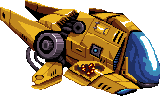
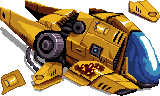
feat: update map tiles, added downed ship

diff --git a/MicroMarine/Scenes/SampleScene.cs b/MicroMarine/Scenes/SampleScene.cs
@@ -142,7 +142,7 @@ namespace MicroMarine.Scenes
 
             // Initiate tile map
             Entity tileMapEntity = CreateEntity("tileMap", Vector2.Zero);
-            Texture2D mapTexture = Content.LoadTexture("mapSheet", "Content/grassSheet32.png");
+            Texture2D mapTexture = Content.LoadTexture("mapSheet", "Content/dirt_sheet32.png");
             Texture2D shipTexture = Content.LoadTexture("shipSheet", "Content/crashed_ship.png");
             var mapSpriteSheet = new SpriteSheet(mapTexture, 32, 32);
             var shipSpriteSheet = new SpriteSheet(shipTexture, 32, 32);
@@ -151,14 +151,14 @@ namespace MicroMarine.Scenes
 
             // Fire
             //var fireSheet = new SpriteSheet(fireTexture, 49, 74);
-            //var fire = CreateEntity("fire", map.MapCenter.ToVector2());
+            //var fire = CreateEntity("fire", map.MapCenter.ToVector2() + new Vector2(50, -50));
             //fire.Origin = new Vector2(fire.Dimensions.X / 2, fire.Dimensions.Y / 2);
             //var fireAnimation = new Animator();
             //fireAnimation.AddAnimation("burn", new Animation(fireTexture, fireSheet.GetFrames(0, 18), 19, Animation.LoopMode.Loop));
             //fireAnimation.Play("burn");
             //fire.AddComponent(fireAnimation);
 
-            //var light = new SimpleLight(fire, lightTexture, new Color(255, 255, 255), Vector2.One);
+            //var light = new SimpleLight(fire, lightTexture, new Color(255, 230, 230), Vector2.One);
             //Lighting.AddLight(light);
 
 
@@ -172,7 +172,7 @@ namespace MicroMarine.Scenes
             }
 
             //Add Blant Spawner
-            Entity blantSpawner = CreateEntity("unitSpawner", map.MapCenter.ToVector2());
+            Entity blantSpawner = CreateEntity("unitSpawner", map.MapCenter.ToVector2() + new Vector2(-20, 60));
             blantSpawner.AddComponent(
                 new UnitSpawner<Blant>(map.MapCenter.ToVector2(), totalSpawns: 100, unitPerWave: 2, waveDelay: 8, waveStep: 2)
             );

diff --git a/Zand/Assets/TileMap.cs b/Zand/Assets/TileMap.cs
@@ -62,8 +62,8 @@ namespace Zand.Assets
                 for (int x = 0; x < baseLayer[y].Length; x++)
                 {
                     // TODO use a reference to a "Tile Repo" instead of creating multiple types of tile
-                    int id = Entity.Scene.Rng.Next(0, 64);
-                    Tile newTile = new Tile(id, id == 63);
+                    int id = Entity.Scene.Rng.Next(0, 14);
+                    Tile newTile = new Tile(id, false);
                     baseLayer[y][x] = newTile;
                 }
             }
@@ -115,14 +115,16 @@ namespace Zand.Assets
         private void DrawMap(SpriteBatch sbatch, Camera camera)
         {
             (Point min, Point max) cullingBounds = GetCullingBounds(camera);
+
+
             for (int yIndex = cullingBounds.min.Y; yIndex < cullingBounds.max.Y; yIndex++)
             {
                 for (int xIndex = cullingBounds.min.X; xIndex < cullingBounds.max.X; xIndex++)
                 {
+
                     for (int layerIndex = 0; layerIndex < Layers.Count; layerIndex++)
                     {
                         var tile = Layers[layerIndex][yIndex][xIndex];
-
                         if (tile.Id is null)
                         {
                             continue;

diff --git a/Zand/Graphics/Lighting/LightMap.cs b/Zand/Graphics/Lighting/LightMap.cs
@@ -31,7 +31,7 @@ namespace Zand.Graphics.Lighting
                 ColorDestinationBlend = Blend.Zero,
                 ColorBlendFunction = BlendFunction.Add
             };
-            DarknessColor = new Color(0, 0, 0, 255);
+            DarknessColor = new Color(0, 0, 10, 255);
             Lights = new List<SimpleLight>();
             LightsToRemove = new List<SimpleLight>();
         }

diff --git a/Zand/Assets/SpriteSheet.cs b/Zand/Assets/SpriteSheet.cs
@@ -73,6 +73,7 @@ namespace Zand.Assets
             return sprites;
         }
 
+
         public override void OnRemovedFromEntity()
         {
             Array.Clear(_sprites, 0, _sprites.Length);
